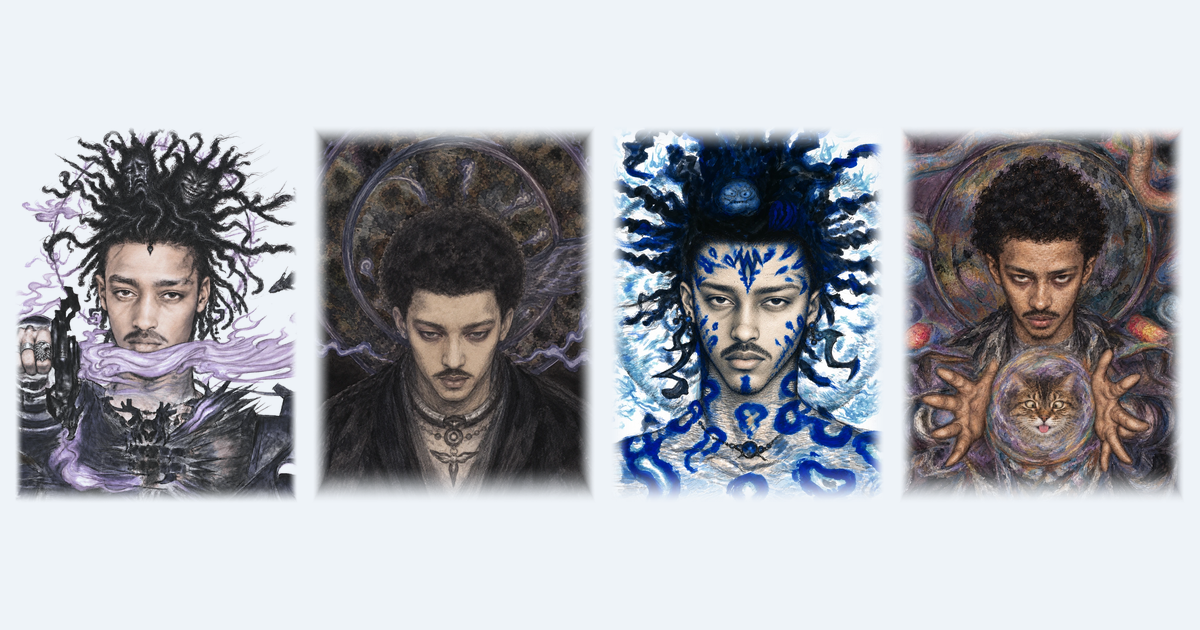
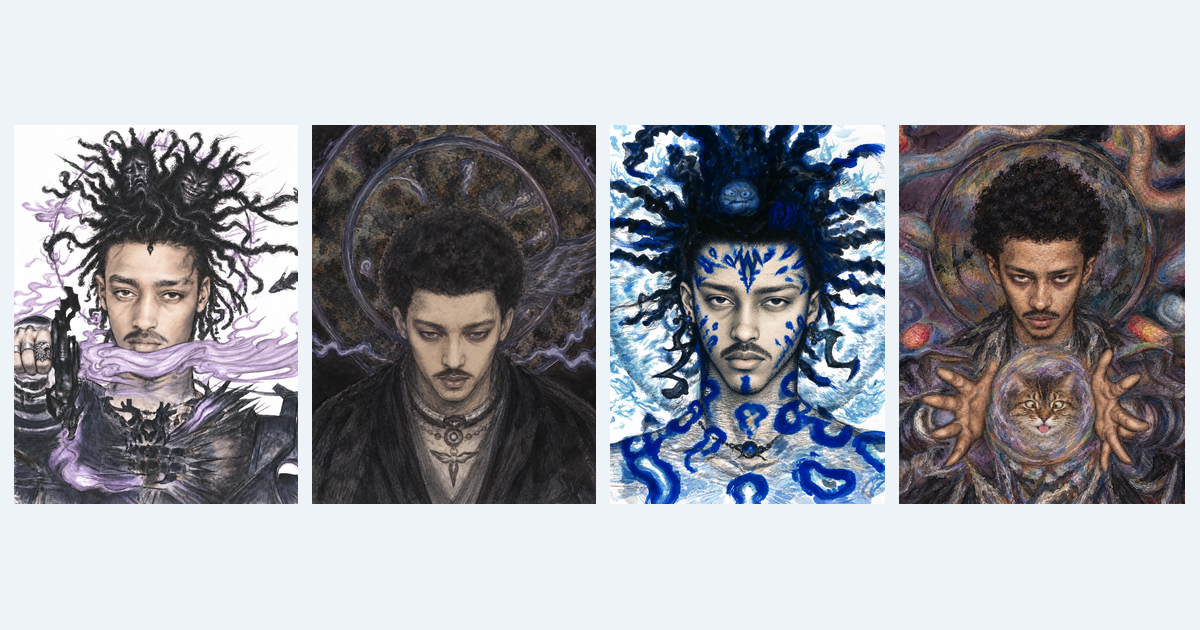
Portraits shown whole and solid, exactly as painted (the original files, untouched), framed

Changed region(s): [[0.0, 0.181, 0.9867, 0.8143]]

diff --git a/site/blog.css b/site/blog.css
@@ -1,7 +1,7 @@
 /* HALF LIFE: the look, after Yoshitaka Amano.
    Pale blue paper with washes of blue, silver-white ribbons that flow like smoke or cloth, and fine ink lines that
    curl at their ends. The background is painted by blog.js on the canvas behind everything (paintLeaf). The home page
-   is a poster: the title over the portrait, which floats on the page. A side menu leads to the rest.
+   is a poster: the title over the portraits, framed, taking turns. A side menu leads to the rest.
    Colours live in :root. */
 :root {
   color-scheme: light;
@@ -95,11 +95,9 @@ main { position: relative; z-index: 2; margin-left: var(--side); min-height: 100
 .poster-rule::after { content: ""; position: absolute; left: 50%; top: 50%; width: 10px; height: 10px; background: var(--ink); transform: translate(-50%, -50%) rotate(45deg); }
 .portrait { position: relative; aspect-ratio: 3 / 4; background: #f6f9fc; box-shadow: 0 1px 0 rgba(23, 22, 28, .08), 0 30px 60px -30px rgba(40, 55, 80, .4); overflow: hidden; }
 .portrait img, .portrait canvas { position: absolute; inset: 0; width: 100%; height: 100%; object-fit: cover; }
-/* once the portrait is hung it floats on the page, unframed, its smoke trailing off into the blue */
-.portrait.hung { aspect-ratio: auto; background: none; box-shadow: none; overflow: visible; margin-top: -6px; }
-/* the portraits stack in one place and take turns, each fading in over the last */
-.portrait.hung { display: grid; }
-.portrait.hung img.pic { grid-area: 1 / 1; position: static; width: 100%; height: auto; opacity: 0; transition: opacity 2.4s ease-in-out; }
+/* once hung, the portraits are shown whole, as they were painted, in one frame, each fading in over the last */
+.portrait.hung { background: #10131a; }
+.portrait.hung img.pic { opacity: 0; transition: opacity 2.4s ease-in-out; }
 .portrait.hung img.pic.on { opacity: 1; }
 .latest { margin: 26px 0 0; font: italic 400 1.15rem/1.4 var(--display); color: var(--ink-soft); }
 .latest a { font-style: normal; }

diff --git a/site/blog.js b/site/blog.js
@@ -225,7 +225,7 @@
 
   // The portraits take turns. The first is shown as soon as it loads; the others are fetched after it, and each
   // fades in over the last every ROTATE milliseconds while the home page is open and can be seen.
-  const PORTRAITS = ["/site/portrait-1.webp?v=2", "/site/portrait-2.webp?v=2", "/site/portrait-3.webp?v=2", "/site/portrait-4.webp?v=2"], ROTATE = 9000;
+  const PORTRAITS = ["/site/portrait-1.webp?v=3", "/site/portrait-2.webp?v=3", "/site/portrait-3.webp?v=3", "/site/portrait-4.webp?v=3"], ROTATE = 9000;
   let rotation = 0;
   function hang(box) {
     clearInterval(rotation);

diff --git a/index.html b/index.html
@@ -8,7 +8,7 @@
 <meta name="theme-color" content="#eaf0f6">
 <meta property="og:title" content="Half Life">
 <meta property="og:description" content="Thoughts and photographs, kept while everything changes.">
-<meta property="og:image" content="https://halflife.studio/og.png?v=4">
+<meta property="og:image" content="https://halflife.studio/og.png?v=5">
 <meta property="og:type" content="website">
 <meta name="twitter:card" content="summary_large_image">
 <link rel="preconnect" href="https://fonts.googleapis.com">
